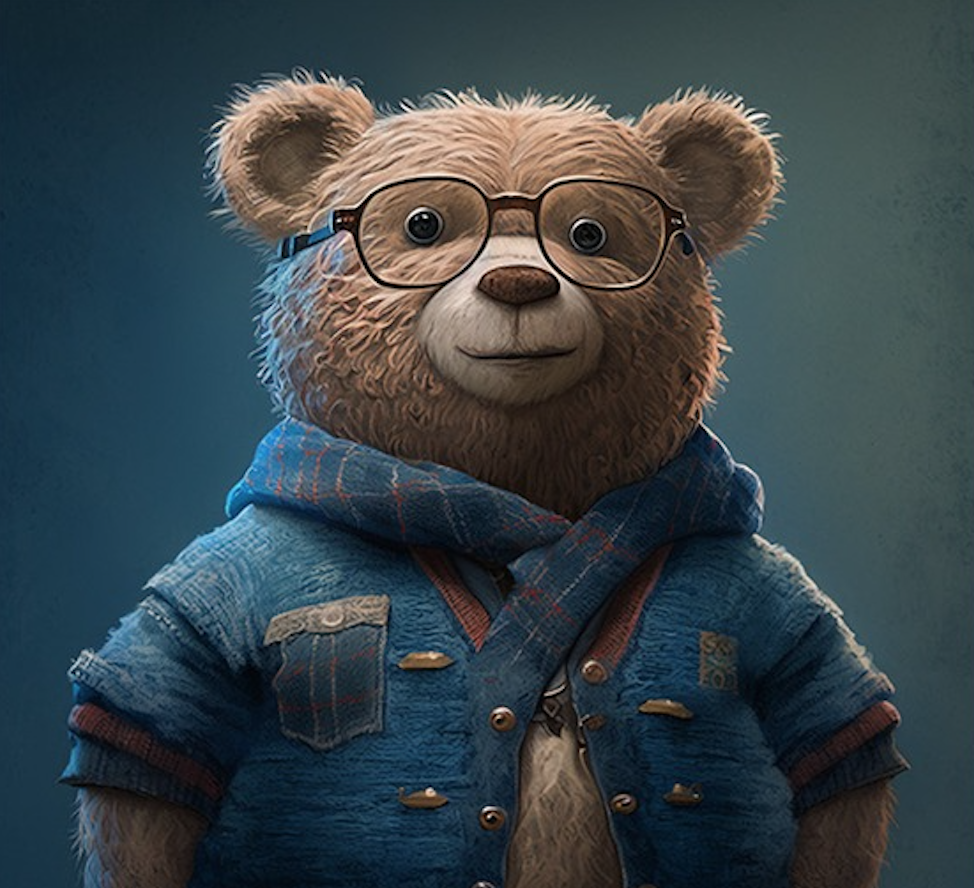
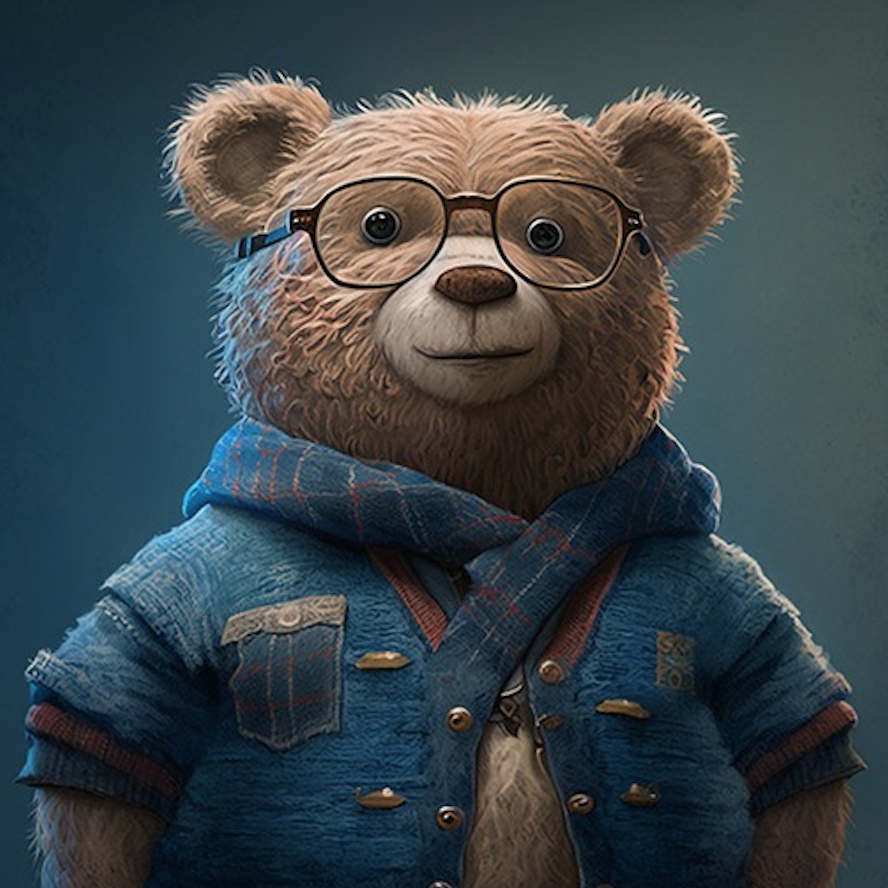
fixed carousel + image dimensions

Changed region(s): [[0.0, 0.0608, 0.973, 1.0], [0.3649, 0.8818, 0.4561, 0.9122], [0.5169, 0.3345, 0.5473, 0.3953]]

diff --git a/src/main/resources/templates/lobby/join-pickMascot.html b/src/main/resources/templates/lobby/join-pickMascot.html
@@ -5,7 +5,7 @@
     <meta charset="utf-8">
     <meta name="viewport" content="width=device-width, initial-scale=1, shrink-to-fit=no">
     <!-- stylesheet -->
-    <link rel="stylesheet" type="text/css" href="/static/css/stylesheet.css"/>
+    <link rel="stylesheet" type="text/css" href="/public/css/stylesheet.css"/>
     <!-- bootstrap -->
     <link rel="stylesheet" href="https://cdn.jsdelivr.net/npm/bootstrap@4.0.0/dist/css/bootstrap.min.css" integrity="sha384-Gn5384xqQ1aoWXA+058RXPxPg6fy4IWvTNh0E263XmFcJlSAwiGgFAW/dAiS6JXm" crossorigin="anonymous">
     <link href="https://cdn.jsdelivr.net/npm/bootstrap@5.3.0-alpha3/dist/js/bootstrap.min.js" integrity="sha384-Y4oOpwW3duJdCWv5ly8SCFYWqFDsfob/3GkgExXKV4idmbt98QcxXYs9UoXAB7BZ" crossorigin="anonymous">
@@ -14,22 +14,22 @@
     <script src="https://cdnjs.cloudflare.com/ajax/libs/javascript.util/0.12.12/javascript.util.min.js" integrity="sha512-oHBLR38hkpOtf4dW75gdfO7VhEKg2fsitvHZYHZjObc4BPKou2PGenyxA5ZJ8CCqWytBx5wpiSqwVEBy84b7tw==" crossorigin="anonymous" referrerpolicy="no-referrer"></script>
     <script src="https://cdn.jsdelivr.net/npm/util@0.12.5/util.min.js"></script>
     <!-- data for translations -->
-    <script src="/static/js/translator.js"></script>
-    <script src="/static/js/translations.js"></script>
+    <script src="/public/js/translator.js"></script>
+    <script src="/public/js/translations.js"></script>
     <!-- title -->
     <title>QRace: Lobby</title>
 </head>
 <body>
 <!-- navbar -->
 <nav class="navbar navbar-expand-xxl navbar-light bg-light">
-    <a class="navbar-brand" href="https://www.speelgoedmuseum.be/"><img src="/static/img/logo.png" height="50" class="d-inline-block align-top" alt="Speelgoedmuseum Mechelen"></a>
+    <a class="navbar-brand" href="https://www.speelgoedmuseum.be/"><img src="/public/img/logo.png" height="50" class="d-inline-block align-top" alt="Speelgoedmuseum Mechelen"></a>
     <button class="navbar-toggler" type="button" data-toggle="collapse" data-target="#navbarNavDropdown" aria-controls="navbarNavDropdown" aria-expanded="false" aria-label="Toggle navigation"><span class="navbar-toggler-icon"></span></button>
     <div class="collapse navbar-collapse" id="navbarNavDropdown">
         <ul class="navbar-nav text-right">
             <li id="home" class="nav-item active"><a class="nav-link" href="#"><span class="sr-only">(current)</span></a></li>
             <li id="inlog" class="nav-item"><a class="nav-link" href="#"></a></li>
             <li id="info" class="nav-item"><a class="nav-link" href="#"></a></li>
-            <li id="changeLanguage" class="nav-item"><img src="/static/img/translate.svg" alt="Translate"></li></li>
+            <li id="changeLanguage" class="nav-item"><img src="/public/img/translate.svg" alt="Translate"></li></li>
         </ul>
     </div>
 </nav>
@@ -40,7 +40,7 @@
         <h4 id="subpicked"></h4>
         <div class="card-deck">
             <div class="card" style="text-align: center;">
-                <img class="card-img-top" src="/static/img/drex.png" alt="drex">
+                <img class="card-img-top" src="/public/img/drex.png" alt="drex">
                 <div class="card-body">
                     <h5 class="card-title">DREX</h5>
                     <p id = "drex" class="card-text"></p>
@@ -48,7 +48,7 @@
                 </div>
             </div>
             <div class="card" style="text-align: center;">
-                <img class="card-img-top" src="/static/img/hans.png" alt="hans">
+                <img class="card-img-top" src="/public/img/hans.png" alt="hans">
                 <div class="card-body">
                     <h5 class="card-title">HANS</h5>
                     <p id = "hans" class="card-text"></p>
@@ -58,7 +58,7 @@
         </div>
         <div class="card-deck">
             <div class="card" style="text-align: center;">
-                <img class="card-img-top" src="/static/img/bert.png" alt="bert">
+                <img class="card-img-top" src="/public/img/bert.png" alt="bert">
                 <div class="card-body">
                     <h5 class="card-title">BERT</h5>
                     <p id = "bert"class="card-text"></p>
@@ -66,7 +66,7 @@
                 </div>
             </div>
             <div class="card" style="text-align: center;">
-                <img class="card-img-top" src="/static/img/max.png" alt="max">
+                <img class="card-img-top" src="/public/img/max.png" alt="max">
                 <div class="card-body">
                     <h5 class="card-title">MAX</h5>
                     <p id = "max" class="card-text"></p>

diff --git a/src/main/resources/templates/index.html b/src/main/resources/templates/index.html
@@ -5,7 +5,7 @@
   <meta charset="utf-8">
   <meta name="viewport" content="width=device-width, initial-scale=1, shrink-to-fit=no">
   <!-- stylesheet -->
-  <link rel="stylesheet" type="text/css" href="/css/stylesheet.css"/>
+  <link rel="stylesheet" type="text/css" href="/public/css/stylesheet.css"/>
   <!-- bootstrap -->
   <link rel="stylesheet" href="https://cdn.jsdelivr.net/npm/bootstrap@4.0.0/dist/css/bootstrap.min.css" integrity="sha384-Gn5384xqQ1aoWXA+058RXPxPg6fy4IWvTNh0E263XmFcJlSAwiGgFAW/dAiS6JXm" crossorigin="anonymous">
   <link href="https://cdn.jsdelivr.net/npm/bootstrap@5.3.0-alpha3/dist/js/bootstrap.min.js" integrity="sha384-Y4oOpwW3duJdCWv5ly8SCFYWqFDsfob/3GkgExXKV4idmbt98QcxXYs9UoXAB7BZ" crossorigin="anonymous">
@@ -14,22 +14,22 @@
   <script src="https://cdnjs.cloudflare.com/ajax/libs/javascript.util/0.12.12/javascript.util.min.js" integrity="sha512-oHBLR38hkpOtf4dW75gdfO7VhEKg2fsitvHZYHZjObc4BPKou2PGenyxA5ZJ8CCqWytBx5wpiSqwVEBy84b7tw==" crossorigin="anonymous" referrerpolicy="no-referrer"></script>
   <script src="https://cdn.jsdelivr.net/npm/util@0.12.5/util.min.js"></script>
   <!-- data for translations -->
-  <script src="/static/js/translator.js"></script>
-  <script src="/static/js/translations.js"></script>
+  <script src="/public/js/translator.js"></script>
+  <script src="/public/js/translations.js"></script>
   <!-- title -->
   <title>QRace: Home</title>
 </head>
 <body>
 <!-- navbar -->
 <nav class="navbar navbar-expand-xxl navbar-light bg-light">
-  <a class="navbar-brand" href="https://www.speelgoedmuseum.be/"><img src="/static/img/logo.png" height="50" class="d-inline-block align-top" alt="Speelgoedmuseum Mechelen"></a>
+  <a class="navbar-brand" href="https://www.speelgoedmuseum.be/"><img src="/public/img/logo.png" height="50" class="d-inline-block align-top" alt="Speelgoedmuseum Mechelen"></a>
   <button class="navbar-toggler" type="button" data-toggle="collapse" data-target="#navbarNavDropdown" aria-controls="navbarNavDropdown" aria-expanded="false" aria-label="Toggle navigation"><span class="navbar-toggler-icon"></span></button>
   <div class="collapse navbar-collapse" id="navbarNavDropdown">
     <ul class="navbar-nav text-right">
       <li id="home" class="nav-item active"><a class="nav-link" href="#"><span class="sr-only">(current)</span></a></li>
       <li id="inlog" class="nav-item"><a class="nav-link" href="#"></a></li>
       <li id="info" class="nav-item"><a class="nav-link" href="#"></a></li>
-      <li id="changeLanguage" class="nav-item"><img src="/static/img/translate.svg" alt="Translate"></li></li>
+      <li id="changeLanguage" class="nav-item"><img src="/public/img/translate.svg" alt="Translate"></li></li>
     </ul>
   </div>
 </nav>
@@ -41,16 +41,16 @@
       <div id="carousel" class="carousel slide" data-ride="carousel"  data-interval="2500">
         <div class="carousel-inner">
           <div class="carousel-item active">
-            <img class="d-block w-100" src="/static/img/drex.png" alt="Drew">
+            <img class="d-block img-fluid w-100" src="/public/img/drex.png" alt="Drew">
           </div>
           <div class="carousel-item">
-            <img class="d-block w-100" src="/static/img/hans.png" alt="Hans">
+            <img class="d-block img-fluid w-100" src="/public/img/hans.png" alt="Hans">
           </div>
           <div class="carousel-item">
-            <img class="d-block w-100" src="/static/img/max.png" alt="Max">
+            <img class="d-block img-fluid w-100" src="/public/img/max.png" alt="Max">
           </div>
           <div class="carousel-item">
-            <img class="d-block w-100" src="/static/img/bert.png" alt="Bert">
+            <img class="d-block img-fluid w-100" src="/public/img/bert.png" alt="Bert">
           </div>
         </div>
       </div>

diff --git a/src/main/resources/templates/lobby/host-join.html b/src/main/resources/templates/lobby/host-join.html
@@ -5,7 +5,7 @@
     <meta charset="utf-8">
     <meta name="viewport" content="width=device-width, initial-scale=1, shrink-to-fit=no">
     <!-- stylesheet -->
-    <link rel="stylesheet" type="text/css" href="/css/stylesheet.css"/>
+    <link rel="stylesheet" type="text/css" href="/public/css/stylesheet.css"/>
     <!-- bootstrap -->
     <link rel="stylesheet" href="https://cdn.jsdelivr.net/npm/bootstrap@4.0.0/dist/css/bootstrap.min.css" integrity="sha384-Gn5384xqQ1aoWXA+058RXPxPg6fy4IWvTNh0E263XmFcJlSAwiGgFAW/dAiS6JXm" crossorigin="anonymous">
     <link href="https://cdn.jsdelivr.net/npm/bootstrap@5.3.0-alpha3/dist/js/bootstrap.min.js" integrity="sha384-Y4oOpwW3duJdCWv5ly8SCFYWqFDsfob/3GkgExXKV4idmbt98QcxXYs9UoXAB7BZ" crossorigin="anonymous">
@@ -14,29 +14,29 @@
     <script src="https://cdnjs.cloudflare.com/ajax/libs/javascript.util/0.12.12/javascript.util.min.js" integrity="sha512-oHBLR38hkpOtf4dW75gdfO7VhEKg2fsitvHZYHZjObc4BPKou2PGenyxA5ZJ8CCqWytBx5wpiSqwVEBy84b7tw==" crossorigin="anonymous" referrerpolicy="no-referrer"></script>
     <script src="https://cdn.jsdelivr.net/npm/util@0.12.5/util.min.js"></script>
     <!-- javascript -->
-    <script src="/static/js/translator.js"></script>
-    <script src="/static/js/translations.js"></script>
+    <script src="/public/js/translator.js"></script>
+    <script src="/public/js/translations.js"></script>
     <!-- title -->
     <title>QRace: Lobby</title>
 </head>
 <body>
 <!-- navbar -->
 <nav class="navbar navbar-expand-xxl navbar-light bg-light">
-    <a class="navbar-brand" href="https://www.speelgoedmuseum.be/"><img src="/static/img/logo.png" height="50" class="d-inline-block align-top" alt="Speelgoedmuseum Mechelen"></a>
+    <a class="navbar-brand" href="https://www.speelgoedmuseum.be/"><img src="/public/img/logo.png" height="50" class="d-inline-block align-top" alt="Speelgoedmuseum Mechelen"></a>
     <button class="navbar-toggler" type="button" data-toggle="collapse" data-target="#navbarNavDropdown" aria-controls="navbarNavDropdown" aria-expanded="false" aria-label="Toggle navigation"><span class="navbar-toggler-icon"></span></button>
     <div class="collapse navbar-collapse" id="navbarNavDropdown">
         <ul class="navbar-nav text-right">
             <li id="home" class="nav-item active"><a class="nav-link" href="#"><span class="sr-only">(current)</span></a></li>
             <li id="inlog" class="nav-item"><a class="nav-link" href="#"></a></li>
             <li id="info" class="nav-item"><a class="nav-link" href="#"></a></li>
-            <li id="changeLanguage" class="nav-item"><img src="/static/img/translate.svg" alt="Translate"></li></li>
+            <li id="changeLanguage" class="nav-item"><img src="/public/img/translate.svg" alt="Translate"></li></li>
         </ul>
     </div>
 </nav>
 <!-- content  -->
 <div class="container-fluid">
     <div class = "row d-block justify-content-center align-items-center" style="text-align: center;">
-        <h2 id="welcome" class="my-3"><span th:text="${session.userName}"></h2>
+        <h2 id="welcome" class="my-3"><span th:text="${session.userName}"></span></h2>
         <button type="button" id = "host" class="btn d-block mx-auto" onclick="location.href='/host'"></button>
         <h2 id="or" class="my-3"></h2>
         <button type="button" id = "join" class="btn d-block mx-auto" onclick="location.href='/join'"></button>

diff --git a/src/main/resources/templates/lobby/lobby.html b/src/main/resources/templates/lobby/lobby.html
@@ -5,7 +5,7 @@
     <meta charset="utf-8">
     <meta name="viewport" content="width=device-width, initial-scale=1, shrink-to-fit=no">
     <!-- stylesheet -->
-    <link rel="stylesheet" type="text/css" href="/static/css/stylesheet.css"/>
+    <link rel="stylesheet" type="text/css" href="/public/css/stylesheet.css"/>
     <!-- bootstrap -->
     <link rel="stylesheet" href="https://cdn.jsdelivr.net/npm/bootstrap@4.0.0/dist/css/bootstrap.min.css" integrity="sha384-Gn5384xqQ1aoWXA+058RXPxPg6fy4IWvTNh0E263XmFcJlSAwiGgFAW/dAiS6JXm" crossorigin="anonymous">
     <link href="https://cdn.jsdelivr.net/npm/bootstrap@5.3.0-alpha3/dist/js/bootstrap.min.js" integrity="sha384-Y4oOpwW3duJdCWv5ly8SCFYWqFDsfob/3GkgExXKV4idmbt98QcxXYs9UoXAB7BZ" crossorigin="anonymous">
@@ -14,22 +14,22 @@
     <script src="https://cdnjs.cloudflare.com/ajax/libs/javascript.util/0.12.12/javascript.util.min.js" integrity="sha512-oHBLR38hkpOtf4dW75gdfO7VhEKg2fsitvHZYHZjObc4BPKou2PGenyxA5ZJ8CCqWytBx5wpiSqwVEBy84b7tw==" crossorigin="anonymous" referrerpolicy="no-referrer"></script>
     <script src="https://cdn.jsdelivr.net/npm/util@0.12.5/util.min.js"></script>
     <!-- data for translations -->
-    <script src="/static/js/translator.js"></script>
-    <script src="/static/js/translations.js"></script>
+    <script src="/public/js/translator.js"></script>
+    <script src="/public/js/translations.js"></script>
     <!-- title -->
     <title>QRace: Lobby</title>
 </head>
 <body>
 <!-- navbar -->
 <nav class="navbar navbar-expand-xxl navbar-light bg-light">
-    <a class="navbar-brand" href="https://www.speelgoedmuseum.be/"><img src="/static/img/logo.png" height="50" class="d-inline-block align-top" alt="Speelgoedmuseum Mechelen"></a>
+    <a class="navbar-brand" href="https://www.speelgoedmuseum.be/"><img src="/public/img/logo.png" height="50" class="d-inline-block align-top" alt="Speelgoedmuseum Mechelen"></a>
     <button class="navbar-toggler" type="button" data-toggle="collapse" data-target="#navbarNavDropdown" aria-controls="navbarNavDropdown" aria-expanded="false" aria-label="Toggle navigation"><span class="navbar-toggler-icon"></span></button>
     <div class="collapse navbar-collapse" id="navbarNavDropdown">
         <ul class="navbar-nav text-right">
             <li id="home" class="nav-item active"><a class="nav-link" href="#"><span class="sr-only">(current)</span></a></li>
             <li id="inlog" class="nav-item"><a class="nav-link" href="#"></a></li>
             <li id="info" class="nav-item"><a class="nav-link" href="#"></a></li>
-            <li id="changeLanguage" class="nav-item"><img src="/static/img/translate.svg" alt="Translate"></li></li>
+            <li id="changeLanguage" class="nav-item"><img src="/public/img/translate.svg" alt="Translate"></li></li>
         </ul>
     </div>
 </nav>

diff --git a/src/main/resources/templates/lobby/join-pickRace.html b/src/main/resources/templates/lobby/join-pickRace.html
@@ -5,7 +5,7 @@
   <meta charset="utf-8">
   <meta name="viewport" content="width=device-width, initial-scale=1, shrink-to-fit=no">
   <!-- stylesheet -->
-  <link rel="stylesheet" type="text/css" href="/static/css/stylesheet.css"/>
+  <link rel="stylesheet" type="text/css" href="/public/css/stylesheet.css"/>
   <!-- bootstrap -->
   <link rel="stylesheet" href="https://cdn.jsdelivr.net/npm/bootstrap@4.0.0/dist/css/bootstrap.min.css" integrity="sha384-Gn5384xqQ1aoWXA+058RXPxPg6fy4IWvTNh0E263XmFcJlSAwiGgFAW/dAiS6JXm" crossorigin="anonymous">
   <link href="https://cdn.jsdelivr.net/npm/bootstrap@5.3.0-alpha3/dist/js/bootstrap.min.js" integrity="sha384-Y4oOpwW3duJdCWv5ly8SCFYWqFDsfob/3GkgExXKV4idmbt98QcxXYs9UoXAB7BZ" crossorigin="anonymous">
@@ -14,22 +14,22 @@
   <script src="https://cdnjs.cloudflare.com/ajax/libs/javascript.util/0.12.12/javascript.util.min.js" integrity="sha512-oHBLR38hkpOtf4dW75gdfO7VhEKg2fsitvHZYHZjObc4BPKou2PGenyxA5ZJ8CCqWytBx5wpiSqwVEBy84b7tw==" crossorigin="anonymous" referrerpolicy="no-referrer"></script>
   <script src="https://cdn.jsdelivr.net/npm/util@0.12.5/util.min.js"></script>
   <!-- data for translations -->
-  <script src="/static/js/translator.js"></script>
-  <script src="/static/js/translations.js"></script>
+  <script src="/public/js/translator.js"></script>
+  <script src="/public/js/translations.js"></script>
   <!-- title -->
   <title>QRace: Lobby</title>
 </head>
 <body>
 <!-- navbar -->
 <nav class="navbar navbar-expand-xxl navbar-light bg-light">
-  <a class="navbar-brand" href="https://www.speelgoedmuseum.be/"><img src="/static/img/logo.png" height="50" class="d-inline-block align-top" alt="Speelgoedmuseum Mechelen"></a>
+  <a class="navbar-brand" href="https://www.speelgoedmuseum.be/"><img src="/public/img/logo.png" height="50" class="d-inline-block align-top" alt="Speelgoedmuseum Mechelen"></a>
   <button class="navbar-toggler" type="button" data-toggle="collapse" data-target="#navbarNavDropdown" aria-controls="navbarNavDropdown" aria-expanded="false" aria-label="Toggle navigation"><span class="navbar-toggler-icon"></span></button>
   <div class="collapse navbar-collapse" id="navbarNavDropdown">
     <ul class="navbar-nav text-right">
       <li id="home" class="nav-item active"><a class="nav-link" href="#"><span class="sr-only">(current)</span></a></li>
       <li id="inlog" class="nav-item"><a class="nav-link" href="#"></a></li>
       <li id="info" class="nav-item"><a class="nav-link" href="#"></a></li>
-      <li id="changeLanguage" class="nav-item"><img src="/static/img/translate.svg" alt="Translate"></li></li>
+      <li id="changeLanguage" class="nav-item"><img src="/public/img/translate.svg" alt="Translate"></li></li>
     </ul>
   </div>
 </nav>

diff --git a/src/main/resources/templates/lobby/name.html b/src/main/resources/templates/lobby/name.html
@@ -14,29 +14,29 @@
     <script src="https://cdnjs.cloudflare.com/ajax/libs/javascript.util/0.12.12/javascript.util.min.js" integrity="sha512-oHBLR38hkpOtf4dW75gdfO7VhEKg2fsitvHZYHZjObc4BPKou2PGenyxA5ZJ8CCqWytBx5wpiSqwVEBy84b7tw==" crossorigin="anonymous" referrerpolicy="no-referrer"></script>
     <script src="https://cdn.jsdelivr.net/npm/util@0.12.5/util.min.js"></script>
     <!-- javascript -->
-    <script src="/static/js/translator.js"></script>
-    <script src="/static/js/translations.js"></script>
+    <script src="/public/js/translator.js"></script>
+    <script src="/public/js/translations.js"></script>
     <!-- title -->
     <title>QRace: Lobby</title>
 </head>
 <body>
 <!-- navbar -->
 <nav class="navbar navbar-expand-xxl navbar-light bg-light">
-    <a class="navbar-brand" href="https://www.speelgoedmuseum.be/"><img src="/static/img/logo.png" height="50" class="d-inline-block align-top" alt="Speelgoedmuseum Mechelen"></a>
+    <a class="navbar-brand" href="https://www.speelgoedmuseum.be/"><img src="/public/img/logo.png" height="50" class="d-inline-block align-top" alt="Speelgoedmuseum Mechelen"></a>
     <button class="navbar-toggler" type="button" data-toggle="collapse" data-target="#navbarNavDropdown" aria-controls="navbarNavDropdown" aria-expanded="false" aria-label="Toggle navigation"><span class="navbar-toggler-icon"></span></button>
     <div class="collapse navbar-collapse" id="navbarNavDropdown">
         <ul class="navbar-nav text-right">
             <li id="home" class="nav-item active"><a class="nav-link" href="#"><span class="sr-only">(current)</span></a></li>
             <li id="inlog" class="nav-item"><a class="nav-link" href="#"></a></li>
             <li id="info" class="nav-item"><a class="nav-link" href="#"></a></li>
-            <li id="changeLanguage" class="nav-item"><img src="/static/img/translate.svg" alt="Translate"></li></li>
+            <li id="changeLanguage" class="nav-item"><img src="/public/img/translate.svg" alt="Translate"></li></li>
         </ul>
     </div>
 </nav>
 <!-- content  -->
 <div class="container-fluid">
     <div class = "row d-block justify-content-center align-items-center" style="text-align: center;">
-        <img class = "my-3" id = "mascotGif" src="/static/img/mascots-circle.gif" alt="changing mascottes" height = 250px>
+        <img class = "my-3" id = "mascotGif" src="/public/img/mascots-circle.gif" alt="changing mascottes" height = 250px>
         <h2 id="question" class="my-3"></h2>
         <form class="d-block" action="/name" method="post">
             <input class="d-block mx-auto" type="text" id="nameInput" name="name" required>

diff --git a/src/main/resources/templates/lobby/host-pickMascot.html b/src/main/resources/templates/lobby/host-pickMascot.html
@@ -5,7 +5,7 @@
     <meta charset="utf-8">
     <meta name="viewport" content="width=device-width, initial-scale=1, shrink-to-fit=no">
     <!-- stylesheet -->
-    <link rel="stylesheet" type="text/css" href="/static/css/stylesheet.css"/>
+    <link rel="stylesheet" type="text/css" href="/public/css/stylesheet.css"/>
     <!-- bootstrap -->
     <link rel="stylesheet" href="https://cdn.jsdelivr.net/npm/bootstrap@4.0.0/dist/css/bootstrap.min.css" integrity="sha384-Gn5384xqQ1aoWXA+058RXPxPg6fy4IWvTNh0E263XmFcJlSAwiGgFAW/dAiS6JXm" crossorigin="anonymous">
     <link href="https://cdn.jsdelivr.net/npm/bootstrap@5.3.0-alpha3/dist/js/bootstrap.min.js" integrity="sha384-Y4oOpwW3duJdCWv5ly8SCFYWqFDsfob/3GkgExXKV4idmbt98QcxXYs9UoXAB7BZ" crossorigin="anonymous">
@@ -14,8 +14,8 @@
     <script src="https://cdnjs.cloudflare.com/ajax/libs/javascript.util/0.12.12/javascript.util.min.js" integrity="sha512-oHBLR38hkpOtf4dW75gdfO7VhEKg2fsitvHZYHZjObc4BPKou2PGenyxA5ZJ8CCqWytBx5wpiSqwVEBy84b7tw==" crossorigin="anonymous" referrerpolicy="no-referrer"></script>
     <script src="https://cdn.jsdelivr.net/npm/util@0.12.5/util.min.js"></script>
     <!-- data for translations -->
-    <script src="/static/js/translator.js"></script>
-    <script src="/static/js/translations.js"></script>
+    <script src="/public/js/translator.js"></script>
+    <script src="/public/js/translations.js"></script>
     <!-- title -->
     <title>QRace: Lobby</title>
 </head>

diff --git a/src/main/resources/public/css/stylesheet.css b/src/main/resources/public/css/stylesheet.css
@@ -1,15 +1,3 @@
-.carousel .carousel-item {
-    height: 450px;
-}
-
-.carousel-item img {
-    position: absolute;
-    object-fit: cover;
-    top: 0;
-    left: 0;
-    min-height: 450px;
-}
-
 footer {
     font-size: small;
 }
